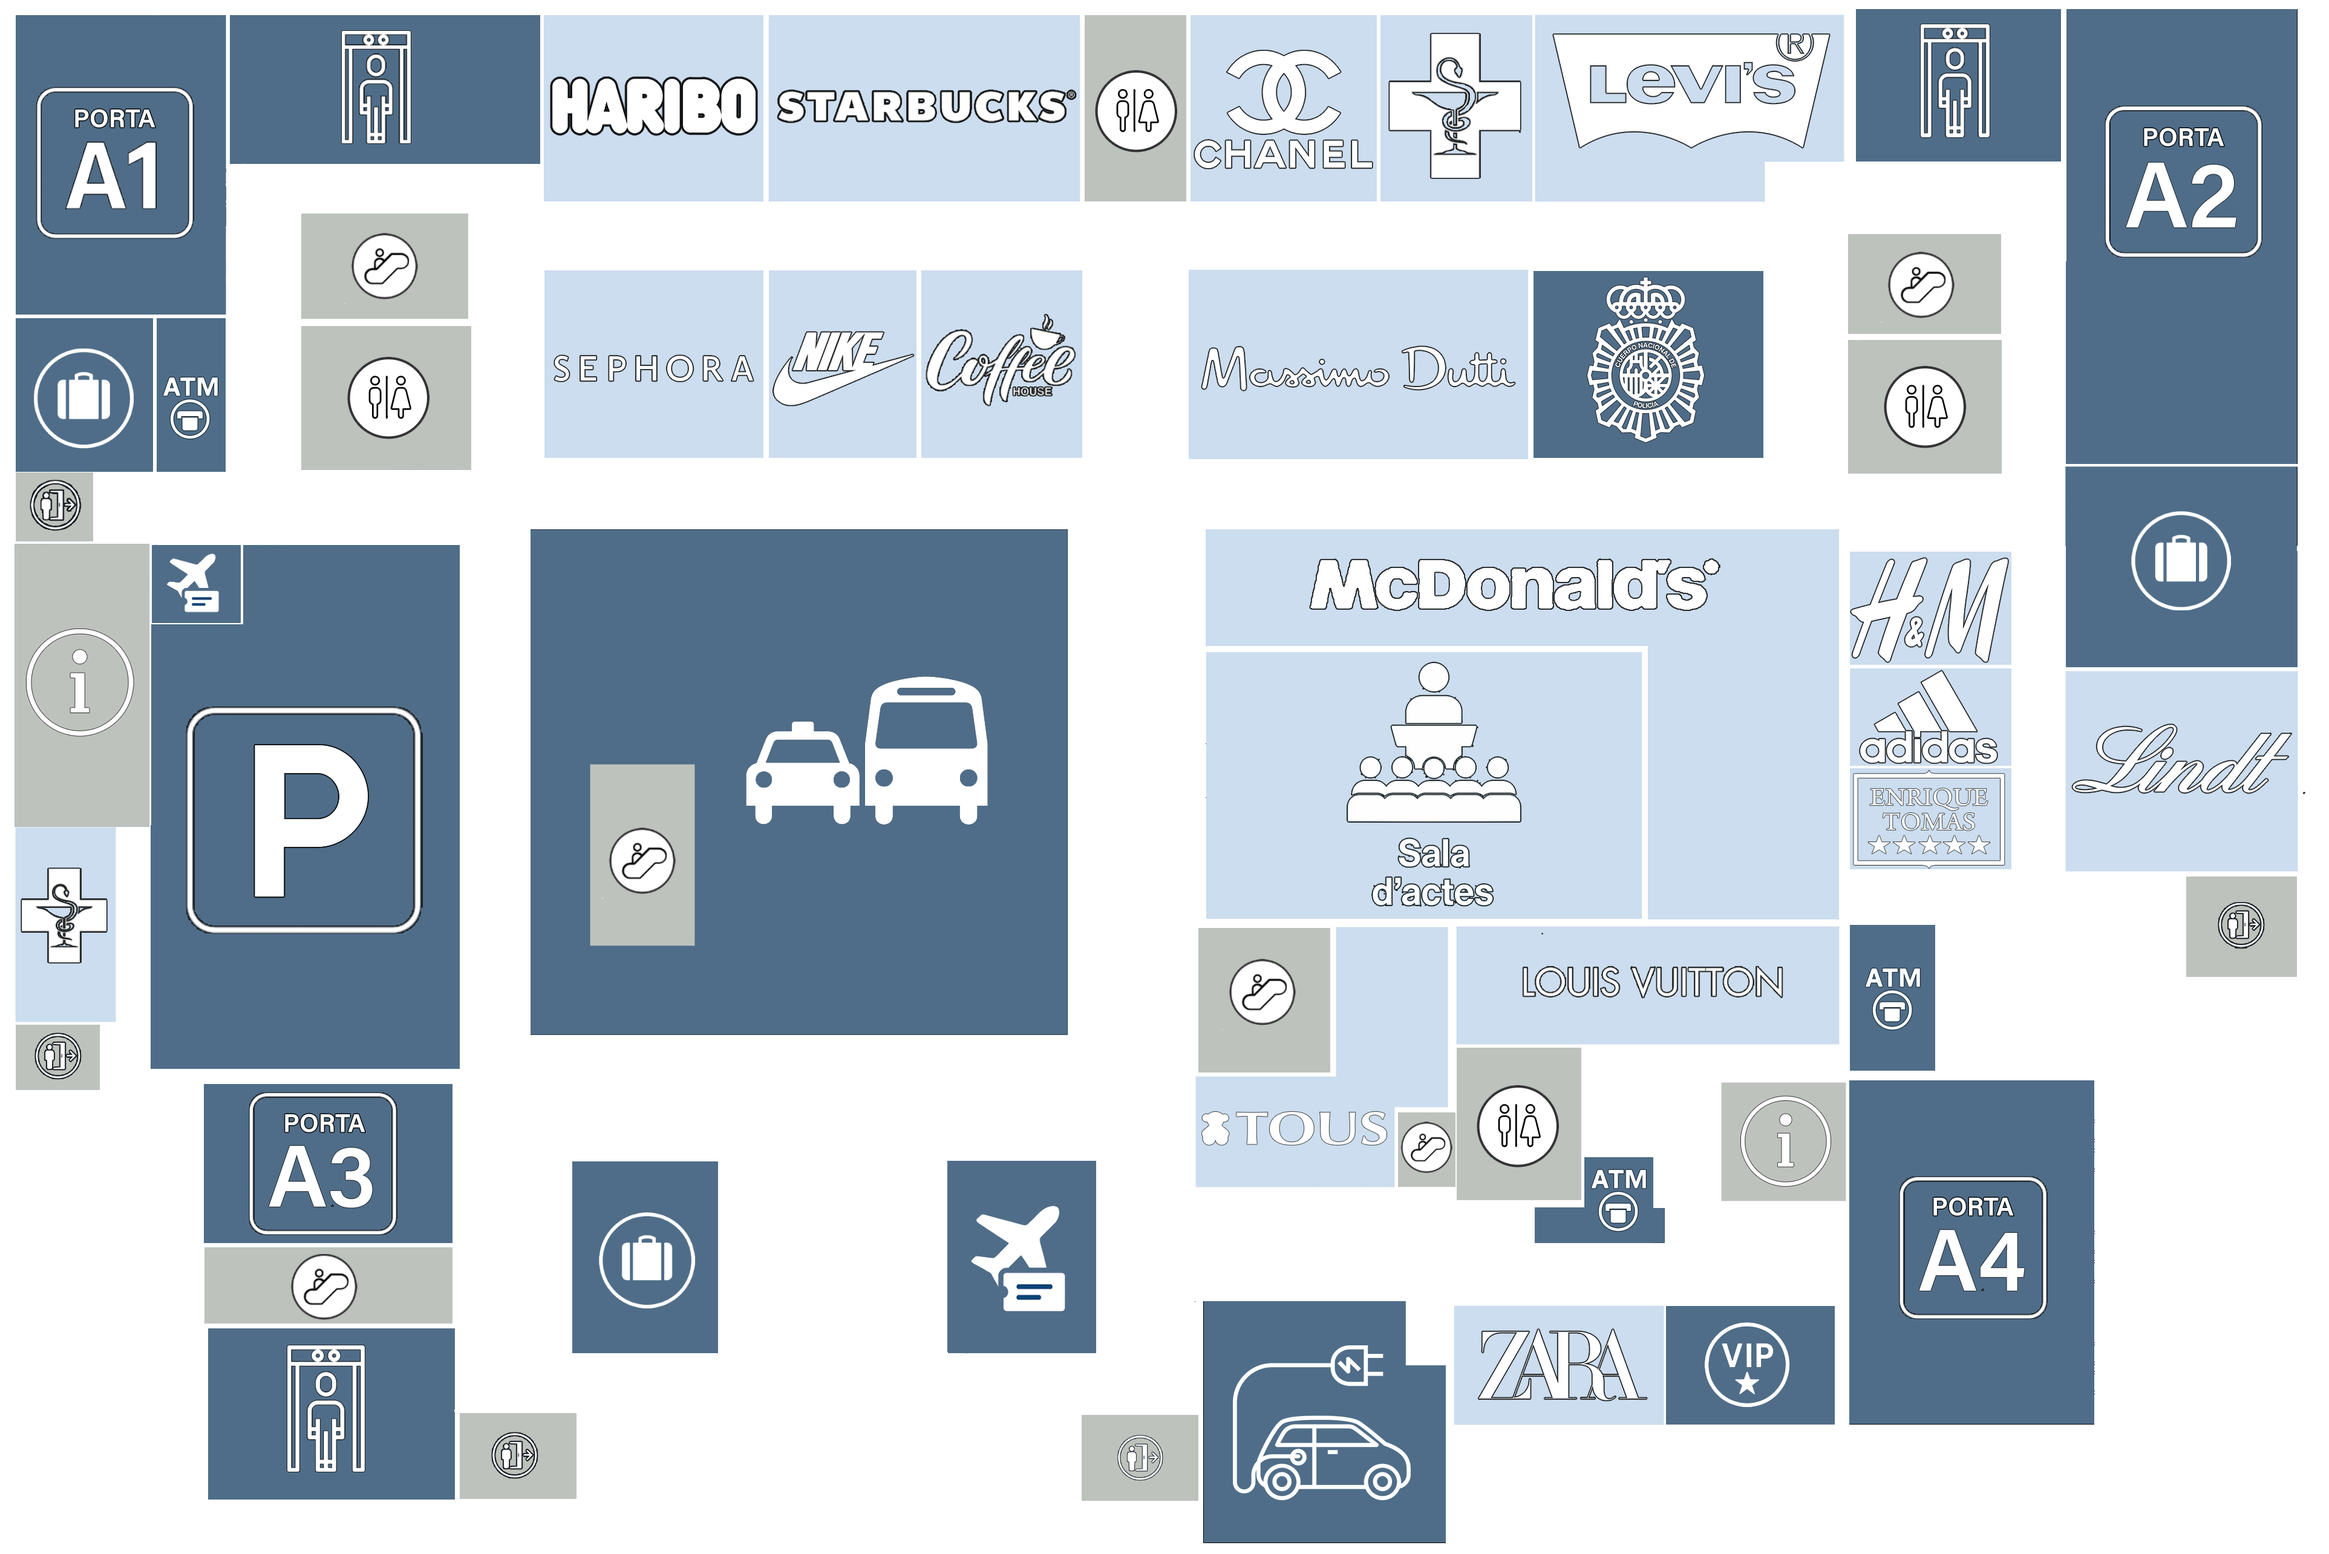
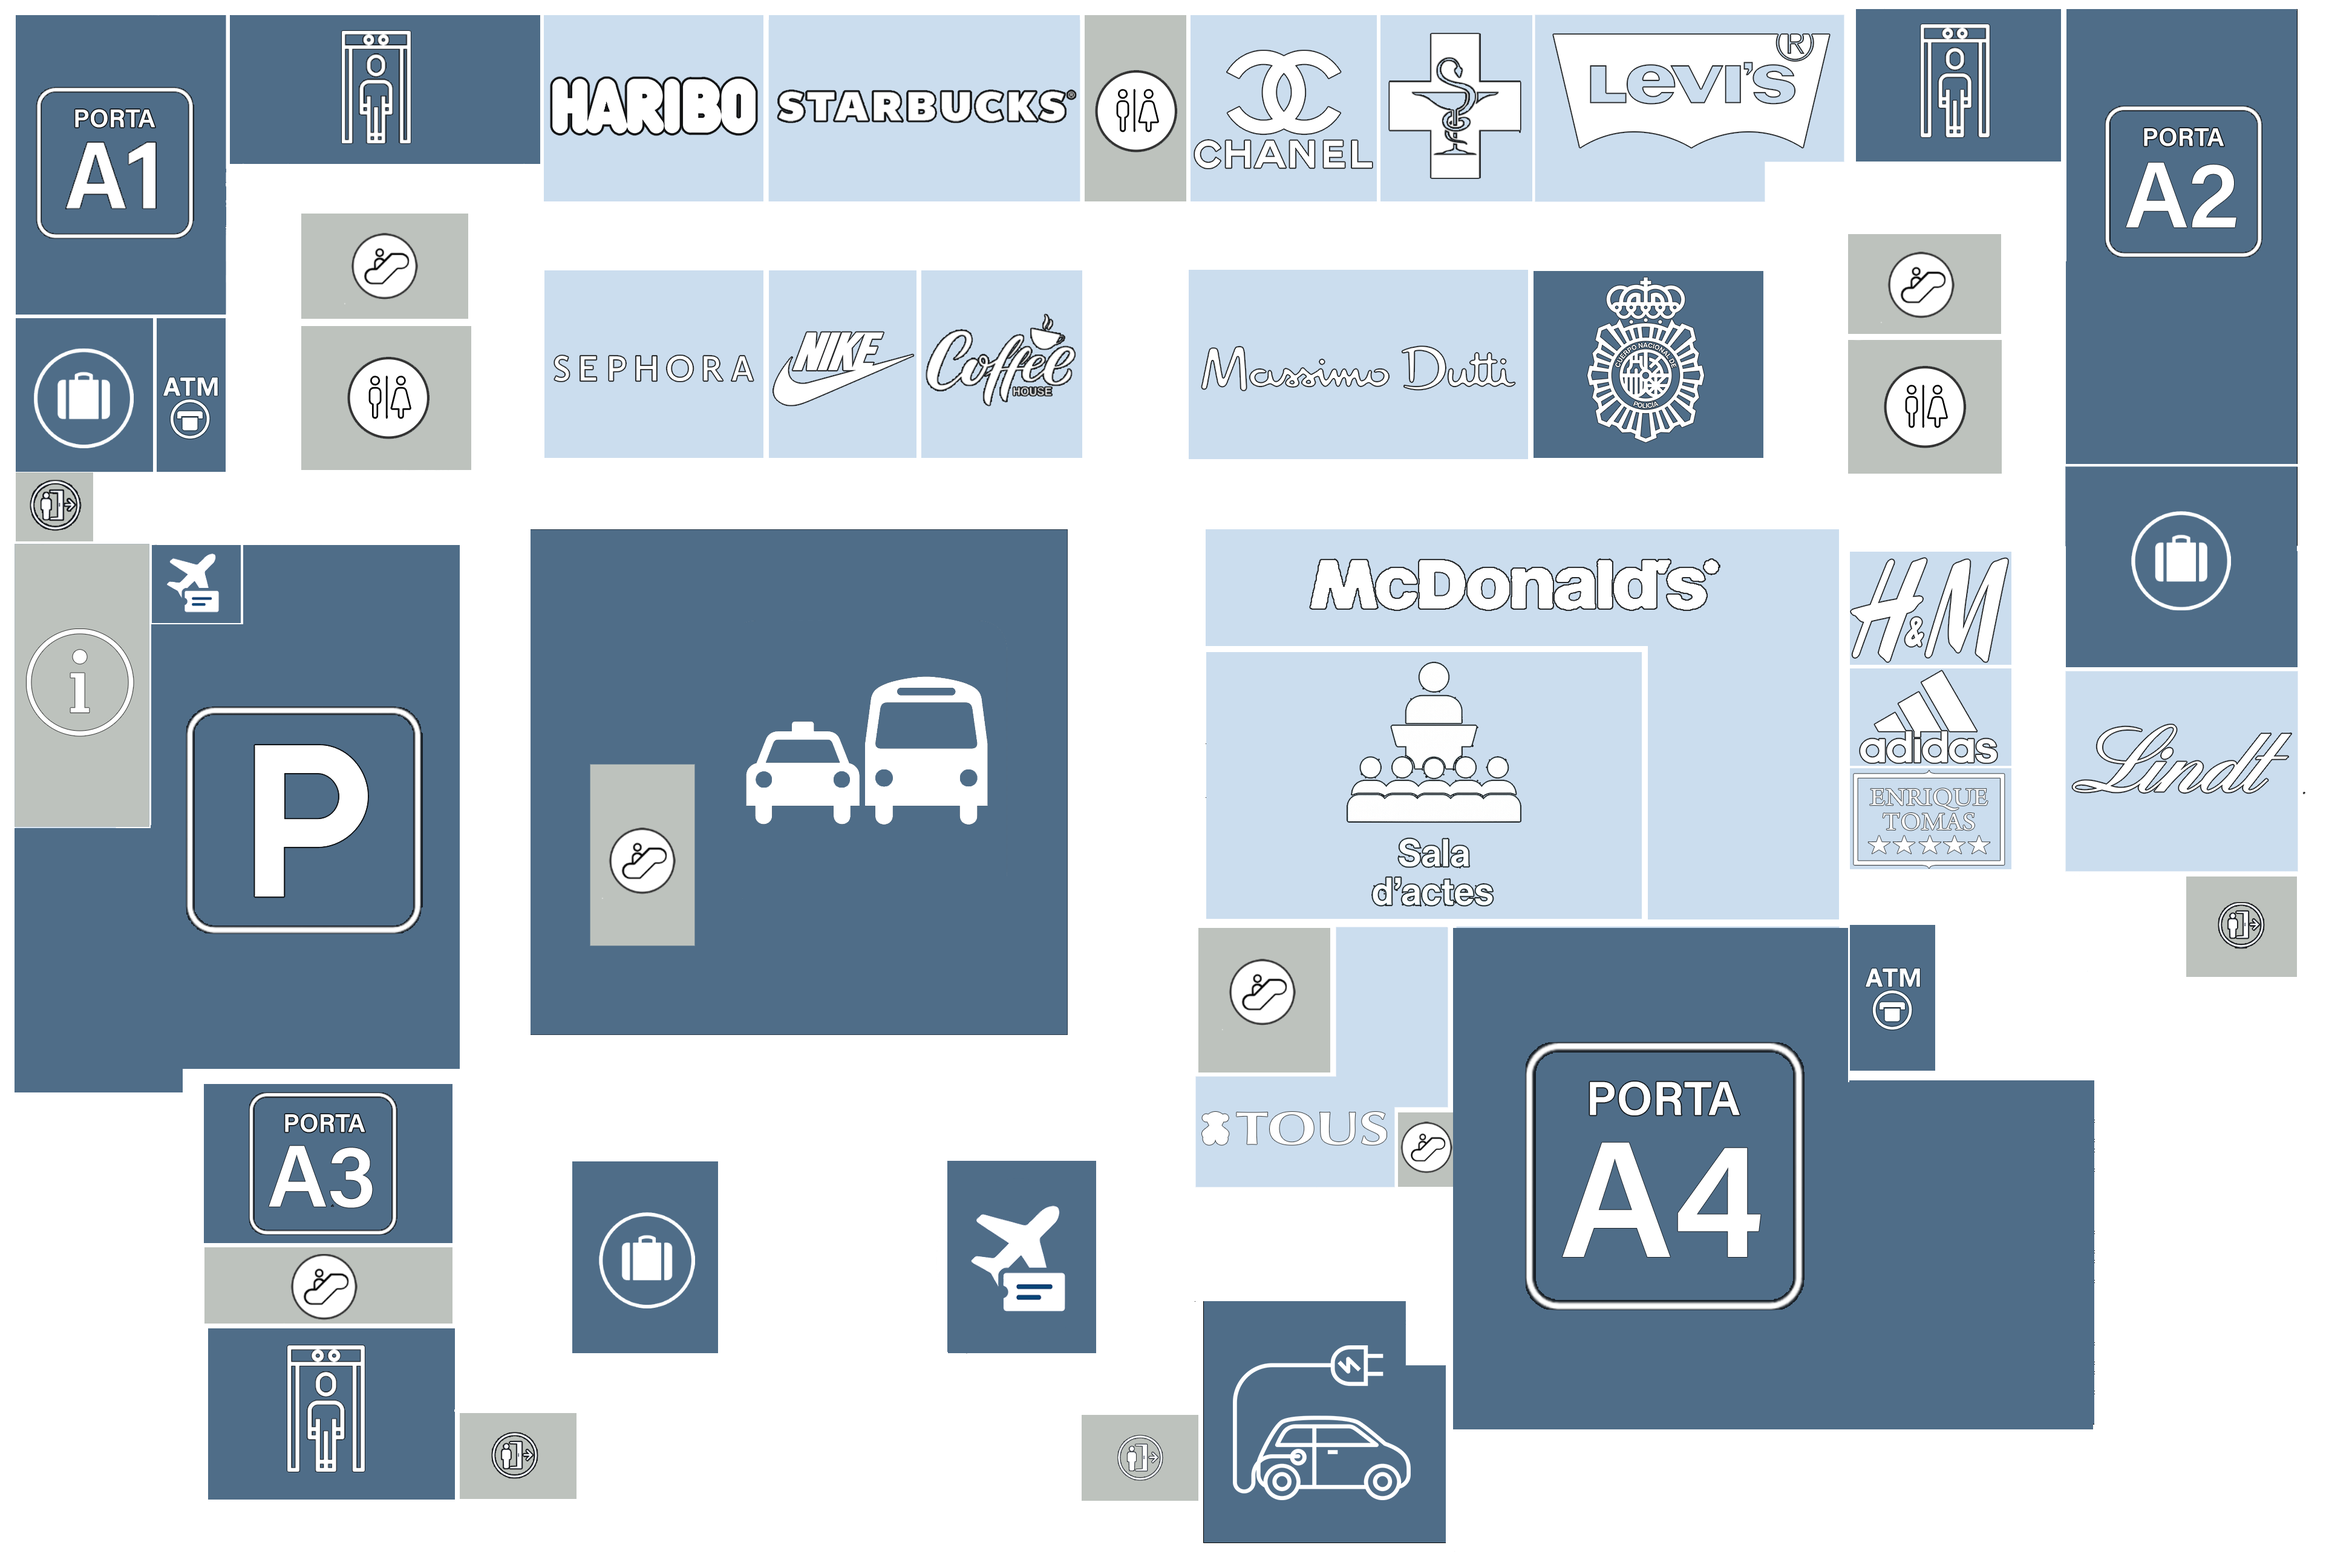
desenvolupament per seccionar el mapa finalitzat

Changed region(s): [[0.6234, 0.5917, 0.8727, 0.9342], [0.0, 0.5294, 0.0935, 0.7162]]

diff --git a/airport-front-end/src/components/MapaLeaflet.jsx b/airport-front-end/src/components/MapaLeaflet.jsx
@@ -7,26 +7,8 @@ import plano from '/src/components/assets/planol.png';
 const imageWidth = 995;
 const imageHeight = 630;
 const bounds = [[0, 0], [imageHeight, imageWidth]];
-const NUM_CARS = 10;
 const baseY = imageHeight / 2;
 const baseX = imageWidth / 2;
-const offsetY = 100;
-const offsetX = 150;
-
-// Icono cuadrado de color
-const customCarIcon = (color = 'red') =>
-  L.divIcon({
-    className: 'custom-car-marker',
-    html: `<div style="
-      width: 25px;
-      height: 25px;
-      background-color: ${color};
-      border: 1px solid white;
-      border-radius: 2px;
-    "></div>`,
-    iconSize: [12, 12],
-    iconAnchor: [6, 6],
-  });
 
 // Función para asignar colores por tipo
 const getColorByType = (type) => {
@@ -231,17 +213,6 @@ const zones = [
     info: 'Punt informació aeroport'
   },
   {
-    name: 'Farmàcia oest',
-    type: 'Farmàcia',
-    positions: [
-      [295, 7],
-      [295, 50],
-      [216, 50],
-      [216, 7]
-    ],
-    info: 'Venta de medicaments'
-  },
-  {
     name: 'Venta billets',
     type: 'Venta bitllets',
     positions: [
@@ -259,7 +230,11 @@ const zones = [
       [409, 104],
       [409, 196],
       [197, 196],
-      [197, 65],
+      [197, 78],
+      [187, 78],
+      [187, 6],
+      [294, 6],
+      [294, 65],
       [376, 65],
       [376, 104]
     ],
@@ -467,138 +442,163 @@ const zones = [
     type: 'Escales accés',
     positions: [
       [179, 597],
-      [179, 622],
-      [149, 622],
+      [179, 621],
+      [149, 621],
       [149, 597]
     ],
     info: 'Escales accés 5'
   },
   {
-    name: 'Louis Vuitton',
-    type: 'Tenda',
+    name: 'Gate A4',
+    type: 'Gate',
     positions: [
-      [254, 622],
-      [254, 786],
-      [207, 786],
-      [207, 622]
+      [254, 621],
+      [254, 790],
+      [192, 790],
+      [192, 895],
+      [51, 895],
+      [51, 621]
     ],
-    info: 'Tenda de moda de luxe'
-  },
-  {
-    name: 'Serveis sud-est',
-    type: 'Serveis',
-    positions: [
-      [206, 623],
-      [206, 676],
-      [144, 676],
-      [144, 623]
-    ],
-    info: 'Serveis de la secció sud-est'
+    info: 'Porta embarcament A4'
   },
   {
     name: 'Caixer 2',
     type: 'Caixer',
     positions: [
-      [161, 677],
-      [161, 707],
-      [141, 707],
-      [141, 712],
-      [125, 712],
-      [125, 655],
-      [141, 655],
-      [141, 677]
-    ],
-    info: 'Caixer ATM'
-  },
-  {
-    name: 'Punt informacio sud-est',
-    type: 'Informacio',
-    positions: [
-      [191, 736],
-      [191, 789],
-      [143, 789],
-      [143, 736]
-    ],	
-    info: 'Punt informació aeroport'
-  },
-  {
-    name: 'Caixer 3',
-    type: 'Caixer',
-    positions: [
-      [255, 790],
       [255, 827],
+      [255, 791],
+      [196, 791],
       [196, 827],
-      [196, 790]
     ],
     info: 'Caixer ATM'
   },
   {
-    name: 'Gate A4',
-    type: 'Gate',
+    name: 'Carrega electrica',
+    type: 'Servei',
     positions: [
-      [192, 791],
-      [192, 895],
-      [53, 895],
-      [53, 791]
+      [103, 514],
+      [103, 601],
+      [77, 601],
+      [77, 618],
+      [4, 618],
+      [4, 514]
     ],
-    info: 'Porta embarcament A4'
+    info: 'Punt de càrrega dels vehicles elèctrics'
   },
   {
-    name: 'Zona VIP',
-    type: 'VIP',
+    name: 'Sortida sud',
+    type: 'Sortida',
     positions: [
-      [101, 784],
-      [101, 712],
-      [52, 712],
-      [52, 784]
+      [57, 462],
+      [57, 512],
+      [21, 512],
+      [21, 462]
     ],
-    info: 'Zona VIP'
+    info: 'Sortida de la secció sud'
   },
   {
-    name: 'Zara',
-    type: 'Tendes',
+    name: 'Sortida sud-oest',
+    type: 'Sortida',
     positions: [
-      [101, 622],
-      [101, 710],
-      [52, 710],
-      [52, 622]
+      [57, 196],
+      [57, 247],
+      [22, 247],
+      [22, 196]
+    ],
+    info: 'Sortida de la secció sud-oest'
+  },
+  {
+    name: 'H&M',
+    type: 'Tenda',
+    positions: [
+      [406, 790],
+      [406, 860],
+      [360, 860],
+      [360, 790]
     ],
     info: 'Tenda de roba'
   },
+  {
+    name: 'Adidas',
+    type: 'Tenda',
+    positions: [
+      [319, 790],
+      [319, 860],
+      [359, 860],
+      [359, 790]
+    ],
+    info: 'Tenda articles esportius'
+  },
+  {
+    name: 'Enrique Tomas',
+    type: 'Menjar',
+    positions: [
+      [318, 790],
+      [318, 860],
+      [277, 860],
+      [277, 790]
+    ],
+    info: 'Entrepans i tapes de pernil'
+  },
+  {
+    name: 'Gate A3',
+    type: 'Gate',
+    positions: [
+      [190, 87],
+      [190, 193],
+      [126, 193],
+      [126, 87]
+    ],
+    info: 'Porta embarcament A3'
+  },
+  {
+    name: 'Escales accés 6',
+    type: 'Escales accés',
+    positions: [
+      [93, 87],
+      [93, 193],
+      [124, 193],
+      [124, 87]
+    ],
+    info: 'Escales accés 6'
+  },
+  {
+    name: 'Seguretat sud-oest',
+    type: 'Seguretat',
+    positions: [
+      [91, 89],
+      [91, 194],
+      [22, 194],
+      [22, 89]
+    ],
+    info: 'Control de seguretat de la secció sud-oest'
+  },
+  {
+    name: 'Zona de maletes',
+    type: 'Servei',
+    positions: [
+      [159, 307],
+      [159, 244],
+      [81, 244],
+      [81, 307]
+    ],
+    info: 'Recollida de maletes'
+  },
+  {
+    name: 'Venta bitllets',
+    type: 'Servei',
+    positions: [
+      [159, 405],
+      [159, 468],
+      [81, 468],
+      [81, 405]
+    ],
+    info: 'Venta de bitllets avió'
+  },
+  
 ];
 
 const IndoorMap = () => {
-  const colors = ['red', 'blue', 'green', 'orange', 'purple', 'yellow', 'pink', 'teal', 'brown', 'black'];
-
-  const generateInitialPositions = () => {
-    const positions = [];
-    for (let i = 0; i < NUM_CARS; i++) {
-      const offsetLat = (Math.random() - 0.5) * offsetY;
-      const offsetLng = (Math.random() - 0.5) * offsetX;
-      positions.push([baseY + offsetLat, baseX + offsetLng]);
-    }
-    return positions;
-  };
-
-  const [carPositions, setCarPositions] = useState(generateInitialPositions);
-
-  useEffect(() => {
-    const interval = setInterval(() => {
-      const minY = baseY - offsetY / 2;
-      const maxY = baseY + offsetY / 2;
-      const minX = baseX - offsetX / 2;
-      const maxX = baseX + offsetX / 2;
-      setCarPositions((positions) =>
-        positions.map(([lat, lng]) => {
-          const newLat = Math.min(maxY, Math.max(minY, lat + (Math.random() - 0.5) * 10));
-          const newLng = Math.min(maxX, Math.max(minX, lng + (Math.random() - 0.5) * 10));
-          return [newLat, newLng];
-        })
-      );
-    }, 1000);
-    return () => clearInterval(interval);
-  }, []);
-
   return (
     <MapContainer
       crs={L.CRS.Simple}
@@ -610,34 +610,50 @@ const IndoorMap = () => {
     >
       <ImageOverlay url={plano} bounds={bounds} />
 
-      {/* Zonas fijas con Polygon */}
       {zones.map((zone, index) => (
         <Polygon
           key={index}
           positions={zone.positions}
-          pathOptions={{ color: getColorByType(zone.type), weight: 1, fillOpacity: 0.2 }}
+          pathOptions={{ 
+            color: getColorByType(zone.type), 
+            weight: 1, 
+            fillOpacity: 0, 
+            opacity: 0.6 
+          }}
+          eventHandlers={{
+            mouseover: (e) => {
+              e.target.setStyle({ weight: 2, color: 'yellow' });
+            },
+            mouseout: (e) => {
+              e.target.setStyle({ weight: 1, color: getColorByType(zone.type) });
+            }
+          }}
         >
           <Tooltip>{zone.name}</Tooltip>
           <Popup>
-            <strong>{zone.name}</strong><br />
-            {zone.info}
+            <div>
+              <strong>{zone.name}</strong><br />
+              {zone.info}<br />
+              <button
+                style={{
+                  marginTop: '5px',
+                  padding: '5px 10px',
+                  backgroundColor: '#007bff',
+                  color: 'white',
+                  border: 'none',
+                  borderRadius: '4px',
+                  cursor: 'pointer'
+                }}
+                onClick={() => alert(`Solicitado trayecto a: ${zone.name}`)}
+              >
+                Solicitar trayecto a esta ubicación
+              </button>
+            </div>
           </Popup>
         </Polygon>
-      ))}
-
-      {/* Coches en movimiento */}
-      {carPositions.map((pos, index) => (
-        <Marker
-          key={`car-${index}`}
-          position={pos}
-          icon={customCarIcon(colors[index % colors.length])}
-        >
-          <Popup>Coche #{index + 1}</Popup>
-        </Marker>
       ))}
     </MapContainer>
   );
 };
 
 export default IndoorMap;
-
